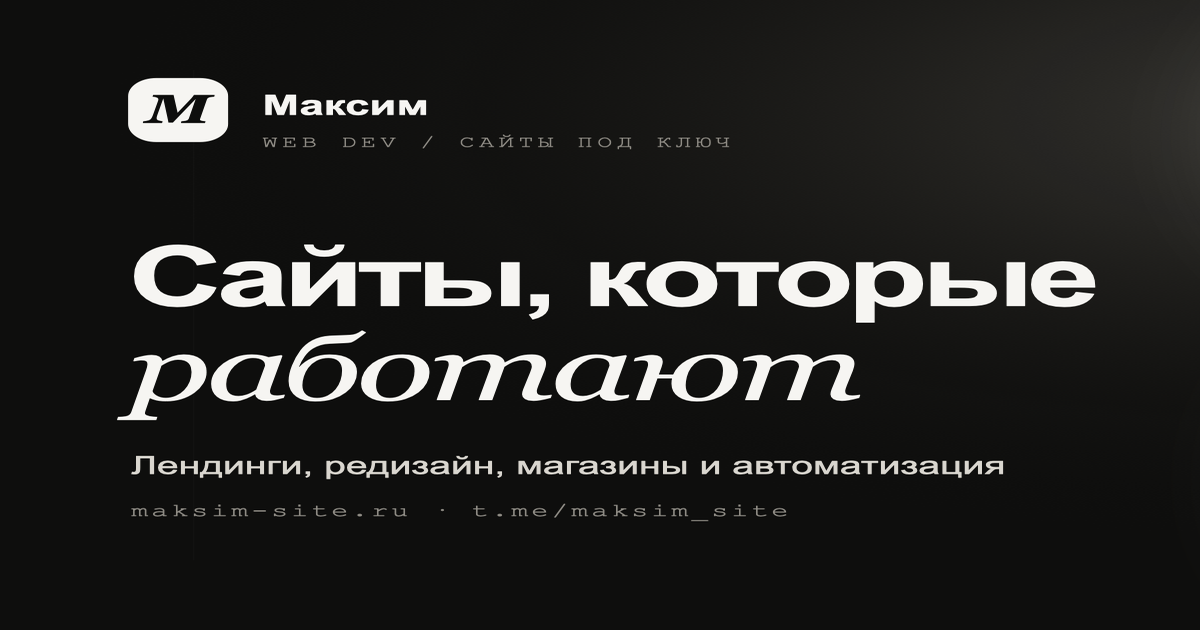
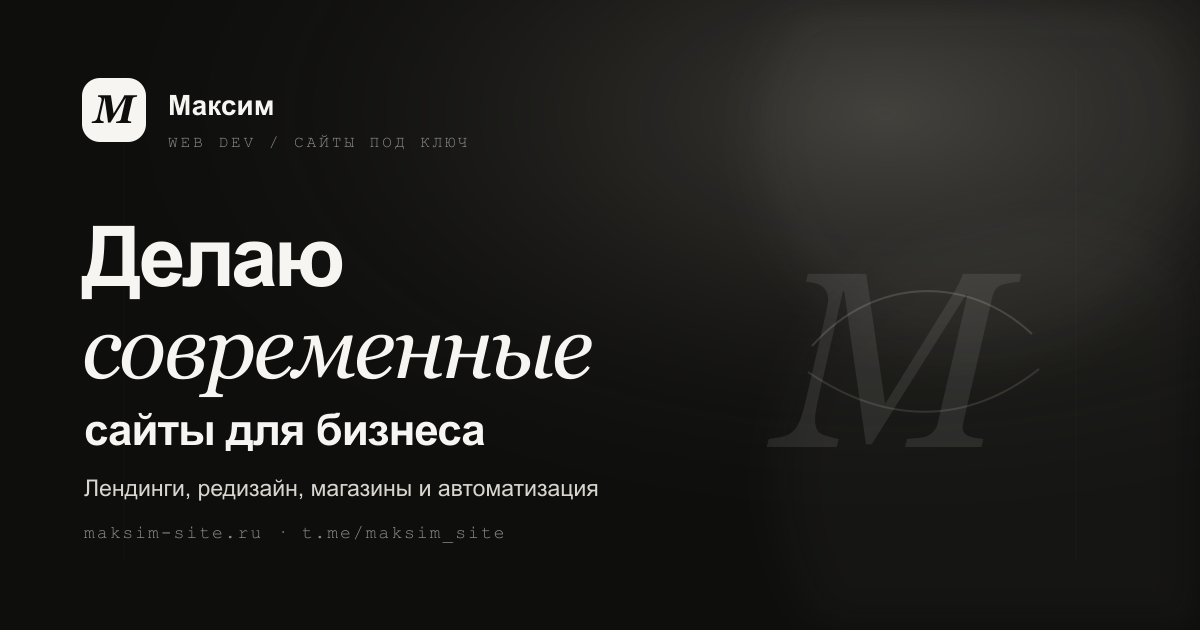
Исправил мобильный финал и превью сайта

diff --git a/index.html b/index.html
@@ -4,8 +4,10 @@
 <meta charset="UTF-8">
 <meta name="viewport" content="width=device-width, initial-scale=1.0, viewport-fit=cover">
 <meta name="apple-mobile-web-app-status-bar-style" content="black">
-<title>Максим - делаю сайты и редизайн</title>
-<meta name="description" content="Делаю сайты под ключ. Разбираюсь в задаче, показываю бесплатный макет, собираю и запускаю сайт. Лендинги, магазины, боты, автоматизация.">
+<title>Максим | Современные сайты для бизнеса</title>
+<meta name="description" content="Делаю современные сайты для бизнеса. Лендинги, магазины, редизайн, боты и автоматизация. Сам собираю проект и запускаю сайт.">
+<meta name="robots" content="index,follow,max-image-preview:large">
+<link rel="canonical" href="https://maksim-site.ru/">
 
 <!-- ============================================================
      БРЕНД: assets/favicon.svg - единый знак в шапке и подвале.
@@ -16,18 +18,27 @@
      ============================================================ -->
 
 <meta name="theme-color" content="#0E0E0D">
-<meta property="og:title" content="Максим - делаю сайты и редизайн">
-<meta property="og:description" content="Разбираюсь в задаче, показываю бесплатный макет, собираю и запускаю сайт.">
+<meta property="og:title" content="Максим | Современные сайты для бизнеса">
+<meta property="og:description" content="Делаю современные сайты для бизнеса. Сам продумываю дизайн, собираю проект и запускаю сайт.">
 <meta property="og:type" content="website">
+<meta property="og:locale" content="ru_RU">
+<meta property="og:site_name" content="Максим | web dev">
 <meta property="og:url" content="https://maksim-site.ru/">
-<meta property="og:image" content="https://maksim-site.ru/assets/og-preview.png?v=20260708-1">
+<meta property="og:image" content="https://maksim-site.ru/assets/og-preview.png?v=20260718-2">
+<meta property="og:image:type" content="image/png">
 <meta property="og:image:width" content="1200">
 <meta property="og:image:height" content="630">
+<meta property="og:image:alt" content="Максим. Современные сайты для бизнеса">
 <meta name="twitter:card" content="summary_large_image">
-<meta name="twitter:image" content="https://maksim-site.ru/assets/og-preview.png?v=20260708-1">
+<meta name="twitter:title" content="Максим | Современные сайты для бизнеса">
+<meta name="twitter:description" content="Делаю современные сайты для бизнеса. Сам продумываю дизайн, собираю проект и запускаю сайт.">
+<meta name="twitter:image" content="https://maksim-site.ru/assets/og-preview.png?v=20260718-2">
+<meta name="twitter:image:alt" content="Максим. Современные сайты для бизнеса">
 
-<link rel="icon" href="assets/favicon.svg?v=20260708-1" type="image/svg+xml">
-<link rel="apple-touch-icon" href="assets/apple-touch-icon.png?v=20260708-1">
+<link rel="icon" href="/favicon.ico?v=20260718-1" sizes="any">
+<link rel="icon" href="/assets/favicon.svg?v=20260718-2" type="image/svg+xml">
+<link rel="icon" href="/assets/favicon-32.png?v=20260718-1" type="image/png" sizes="32x32">
+<link rel="apple-touch-icon" href="/assets/apple-touch-icon.png?v=20260718-1">
 
 <script>(function(){
   var root=document.documentElement;
@@ -3266,6 +3277,6 @@ function activateServiceRow(index){
 })();
 </script>
 <script src="assets/experience-loader.js?v=20260715-5"></script>
-<script src="assets/experience.js?v=20260718-2"></script>
+<script src="assets/experience.js?v=20260718-3"></script>
 </body>
 </html>

diff --git a/assets/experience.js b/assets/experience.js
@@ -1649,7 +1649,7 @@ function holdExperienceScrollAt(top){
       1-smooth(segment(motion,.515,.55)),
       phase(motion,.515,.55,.87,.895),
       phase(motion,.87,.895,.985,.995),
-      smooth(segment(motion,.985,.995))
+      phase(motion,.985,.995,.992,.999)
     ];
     var active=0;
     values.forEach(function(value,index){
